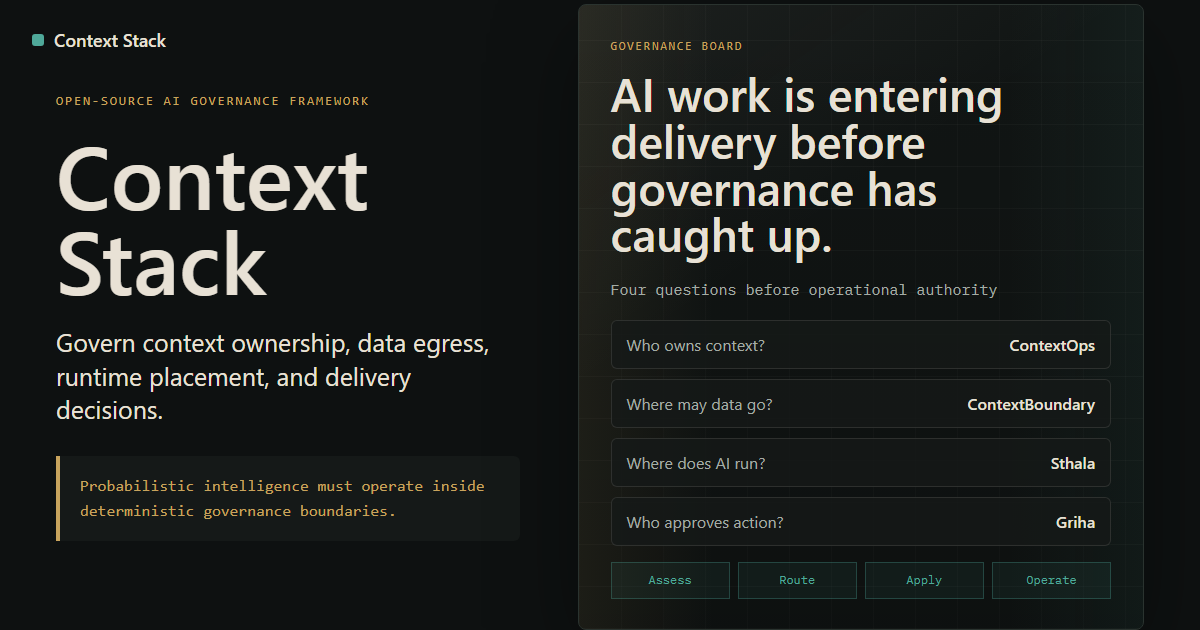
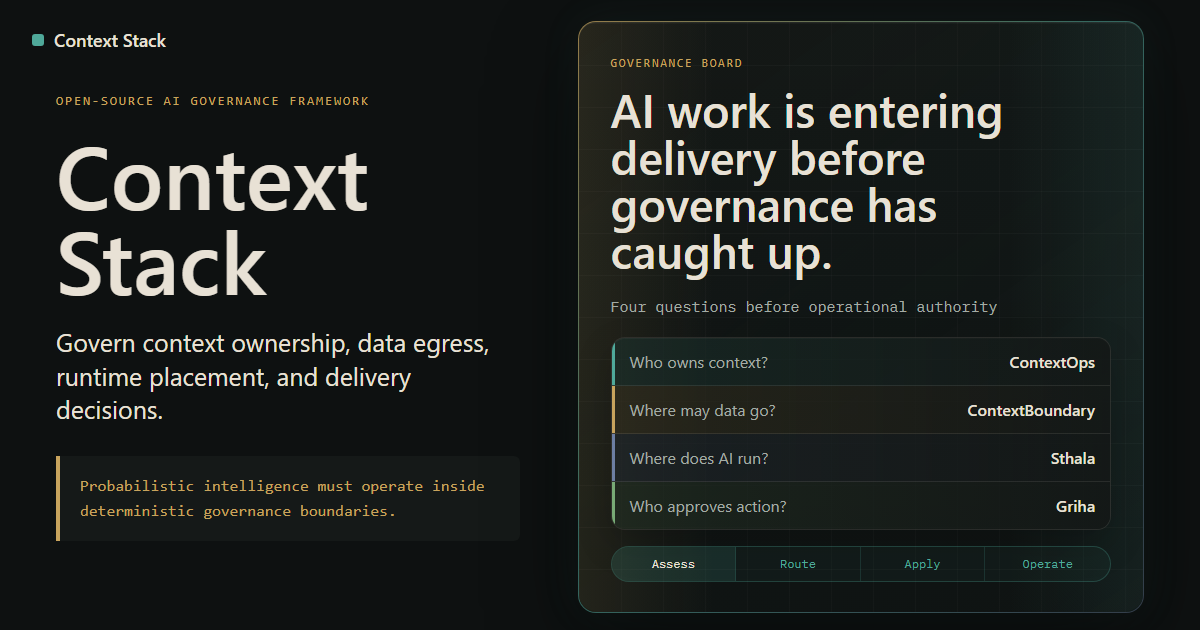
Polish governance board visual treatment
- Add rounded control-panel frame using site theme colors

- Convert board rows into a rounded decision table with subtle accents

- Refresh hero.png social preview to match the final visual

diff --git a/assets/site.css b/assets/site.css
@@ -219,20 +219,27 @@ h1 {
 
 .hero-board {
   min-width: 0;
+  perspective: 1200px;
 }
 
 .board-surface {
+  isolation: isolate;
   position: relative;
   min-width: 0;
   padding: clamp(1.35rem, 3vw, 2rem);
-  border: 1px solid var(--line);
-  border-radius: 8px;
+  border: 1px solid transparent;
+  border-radius: 18px;
   background:
-    linear-gradient(145deg, rgba(232, 225, 213, 0.055), rgba(232, 225, 213, 0) 38%),
+    linear-gradient(145deg, rgba(17, 21, 20, 0.98), rgba(17, 21, 20, 0.93)) padding-box,
+    linear-gradient(135deg, rgba(200, 164, 93, 0.72), rgba(79, 169, 154, 0.56) 45%, rgba(109, 127, 163, 0.38)) border-box,
     repeating-linear-gradient(0deg, rgba(232, 225, 213, 0.035) 0, rgba(232, 225, 213, 0.035) 1px, transparent 1px, transparent 42px),
     repeating-linear-gradient(90deg, rgba(232, 225, 213, 0.025) 0, rgba(232, 225, 213, 0.025) 1px, transparent 1px, transparent 42px),
     #111514;
-  box-shadow: 0 24px 80px var(--shadow);
+  box-shadow:
+    0 30px 90px rgba(0, 0, 0, 0.42),
+    0 0 42px rgba(79, 169, 154, 0.08),
+    inset 0 1px 0 rgba(232, 225, 213, 0.08),
+    inset 0 -1px 0 rgba(0, 0, 0, 0.32);
   overflow: hidden;
 }
 
@@ -241,9 +248,23 @@ h1 {
   position: absolute;
   inset: 0;
   pointer-events: none;
+  z-index: 0;
   background:
-    linear-gradient(90deg, rgba(200, 164, 93, 0.08), transparent 24%, transparent 76%, rgba(79, 169, 154, 0.06)),
+    linear-gradient(90deg, rgba(200, 164, 93, 0.11), transparent 24%, transparent 76%, rgba(79, 169, 154, 0.09)),
     linear-gradient(180deg, rgba(0, 0, 0, 0), rgba(0, 0, 0, 0.22));
+}
+
+.board-surface::after {
+  content: "";
+  position: absolute;
+  inset: 1px;
+  z-index: 0;
+  pointer-events: none;
+  border-radius: 17px;
+  background: linear-gradient(115deg, transparent 12%, rgba(232, 225, 213, 0.07) 42%, transparent 62%);
+  opacity: 0.56;
+  transform: translateX(-72%);
+  animation: board-sheen 12s ease-in-out infinite;
 }
 
 .board-surface > * {
@@ -278,20 +299,70 @@ h1 {
 
 .board-map {
   display: grid;
-  gap: 0.65rem;
+  gap: 0;
   margin: 0 0 1rem;
+  border: 1px solid rgba(232, 225, 213, 0.13);
+  border-radius: 14px;
+  background: rgba(13, 16, 15, 0.56);
+  box-shadow:
+    inset 0 1px 0 rgba(232, 225, 213, 0.05),
+    0 14px 36px rgba(0, 0, 0, 0.18);
+  overflow: hidden;
 }
 
 .board-row {
+  position: relative;
   display: grid;
   grid-template-columns: minmax(0, 1fr) minmax(9rem, auto);
   gap: 1rem;
   align-items: center;
   min-width: 0;
-  padding: 0.78rem 0.9rem;
-  border: 1px solid rgba(232, 225, 213, 0.11);
-  border-radius: 6px;
-  background: rgba(21, 25, 24, 0.82);
+  padding: 0.84rem 0.95rem 0.84rem 1.08rem;
+  border-bottom: 1px solid rgba(232, 225, 213, 0.1);
+  background: linear-gradient(90deg, rgba(21, 25, 24, 0.94), rgba(21, 25, 24, 0.7));
+}
+
+.board-row:last-child {
+  border-bottom: 0;
+}
+
+.board-row::before {
+  content: "";
+  position: absolute;
+  top: 0;
+  bottom: 0;
+  left: 0;
+  width: 3px;
+  background: var(--teal);
+  opacity: 0.92;
+}
+
+.board-row:nth-child(1) {
+  background: linear-gradient(90deg, rgba(79, 169, 154, 0.13), rgba(21, 25, 24, 0.76));
+}
+
+.board-row:nth-child(2) {
+  background: linear-gradient(90deg, rgba(200, 164, 93, 0.13), rgba(21, 25, 24, 0.76));
+}
+
+.board-row:nth-child(2)::before {
+  background: var(--gold);
+}
+
+.board-row:nth-child(3) {
+  background: linear-gradient(90deg, rgba(109, 127, 163, 0.13), rgba(21, 25, 24, 0.76));
+}
+
+.board-row:nth-child(3)::before {
+  background: var(--blue);
+}
+
+.board-row:nth-child(4) {
+  background: linear-gradient(90deg, rgba(120, 170, 118, 0.12), rgba(21, 25, 24, 0.76));
+}
+
+.board-row:nth-child(4)::before {
+  background: var(--green);
 }
 
 .board-row span {
@@ -309,19 +380,32 @@ h1 {
 .board-flow {
   display: grid;
   grid-template-columns: repeat(4, minmax(0, 1fr));
-  gap: 0.35rem;
+  gap: 0;
   margin: 1rem 0 0.8rem;
+  border: 1px solid rgba(79, 169, 154, 0.28);
+  border-radius: 999px;
+  background: rgba(79, 169, 154, 0.055);
+  overflow: hidden;
 }
 
 .board-flow span {
   min-width: 0;
   padding: 0.6rem 0.45rem;
-  border: 1px solid rgba(79, 169, 154, 0.28);
+  border-right: 1px solid rgba(79, 169, 154, 0.18);
   color: var(--teal);
-  background: rgba(79, 169, 154, 0.07);
+  background: transparent;
   font-family: var(--mono);
   font-size: 0.72rem;
   text-align: center;
+}
+
+.board-flow span:first-child {
+  color: var(--text);
+  background: rgba(79, 169, 154, 0.13);
+}
+
+.board-flow span:last-child {
+  border-right: 0;
 }
 
 .board-note {
@@ -330,6 +414,25 @@ h1 {
   font-family: var(--mono);
   font-size: 0.72rem;
   line-height: 1.55;
+}
+
+@keyframes board-sheen {
+  0%,
+  62% {
+    transform: translateX(-72%);
+  }
+
+  78%,
+  100% {
+    transform: translateX(72%);
+  }
+}
+
+@media (prefers-reduced-motion: reduce) {
+  .board-surface::after {
+    animation: none;
+    opacity: 0.22;
+  }
 }
 
 .section {